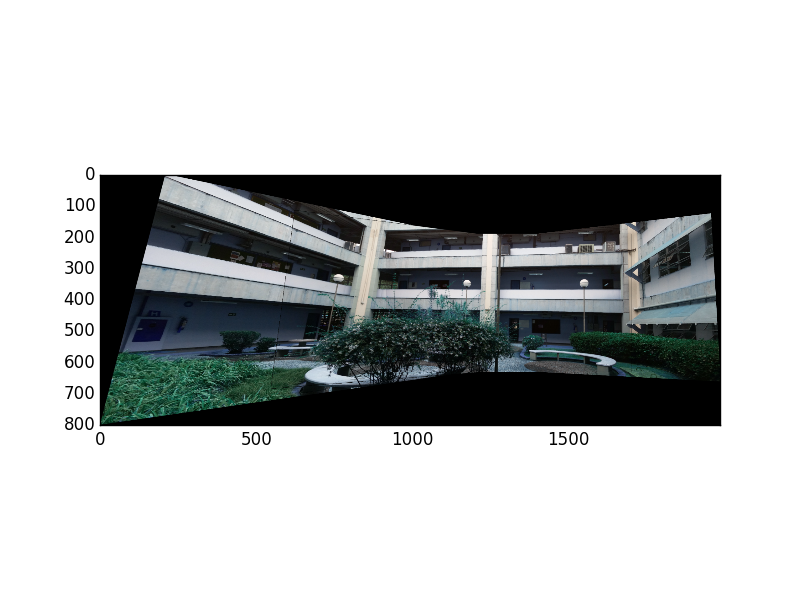
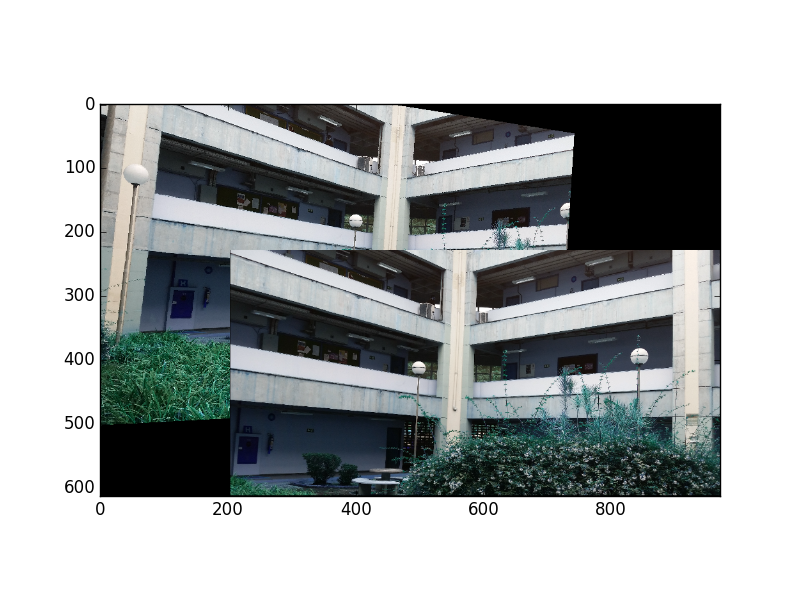
Starting warp perspective

diff --git a/tp2.py b/tp2.py
@@ -6,7 +6,7 @@ import matplotlib.pyplot as plt
 
 MASK_SIZE = 2000
 
-MAX_HEIGHT = 1200.00
+MAX_HEIGHT = 800.00
 
 SIFT_SIFT = 0
 FAST_BRIEF = 1
@@ -249,61 +249,98 @@ class ImageBlock:
 
         return matrix_h
 
-    def warp(self, h, new_h, new_w, min_x, min_y):
+    def get_dimensions(self, h):
+        img_h, img_w = self._image.shape[:2]
+        min_v = 0
+        min_u = 0
+        max_v = 0
+        max_u = 0
+        for y in range(img_h):
+            for x in range(img_w):
+                u = (h[0, 0]*x) + (h[0, 1]*y) + (h[0, 2])
+                v = (h[1, 0]*x) + (h[1, 1]*y) + (h[1, 2])
+                w = (h[2, 0]*x) + (h[2, 1]*y) + (h[2, 2])
+                u /= w
+                v /= w
+
+                if v < min_v:
+                    min_v = v
+
+                if u < min_u:
+                    min_u = u
+
+                if v > max_v:
+                    max_v = v
+
+                if u > max_u:
+                    max_u = u
+
+        min_u *= -1
+        min_v *= -1
+        max_u += min_u
+        max_v += min_v
+        return min_v, min_u, max_v, max_u
+
+    def warp(self, h, new_h, new_w, min_u=0, min_v=0):
         img_h, img_w = self._image.shape[:2]
 
         warped_img = np.zeros((new_h, new_w, 3), np.uint8)
-        w = 1
+
         for y in range(img_h):
             for x in range(img_w):
-                x1 = min_x + (h[0, 0]*x) + (h[1, 0]*y) + (h[2, 0]*w)
-                y1 = min_y + (h[0, 1]*x) + (h[1, 1]*y) + (h[2, 1]*w)
+                u = (h[0, 0]*x) + (h[0, 1]*y) + (h[0, 2])
+                v = (h[1, 0]*x) + (h[1, 1]*y) + (h[1, 2])
+                w = (h[2, 0]*x) + (h[2, 1]*y) + (h[2, 2])
+                u /= w
+                v /= w
 
-                if (x1 < new_w-1) and (y1 < new_h-1) and (x1 >= 0) and (y1 >= 0):
-                    warped_img[y1, x1] = self._image[y, x]
+                u += min_u
+                v += min_v
+
+                if (u < new_w-1) and (v < new_h-1) and (u >= 0) and (v >= 0):
+                    warped_img[v, u] = self._image[y, x]
 
         return warped_img
 
 
 class Mosaic:
     @staticmethod
-    def get_wrap_image(center_block, target):
-        print "Matching " + center_block.get_path() + " and " + target.get_path()
-        matches = center_block.match(target)
-        homography = center_block.get_homography(target, matches)
-        inv_homography = np.linalg.inv(homography)
-        img_h, img_w = center_block.get_image().shape[:2]
-        new_h = img_h * 1.5
-        new_w = img_w * 2
-        # target_img_wrp = cv2.warpPerspective(target.get_image(), mod_inv_h, (img_w, img_h))
-        target_img_wrp = target.warp(homography, new_h, new_w, 0, 200)
-        # center_img_wrp = cv2.warpPerspective(center_block.get_image(), move_h, (img_w, img_h))
-        center_img_wrp = center_block.warp(np.identity(3), new_h, new_w, 0, 200)
+    def get_wrap_image(center, target):
+        print "Matching " + center.get_path() + " and " + target.get_path()
+        matches = target.match(center)
+        homography = target.get_homography(center, matches)
+        # inv_homography = np.linalg.inv(homography)
+
+        min_y, min_x, new_h, new_w = target.get_dimensions(homography)
+
+        target_img_wrp = target.warp(homography, new_h, new_w)
+
+        center_img_wrp = center.warp(np.identity(3), new_h, new_w, min_y, min_x)
+
+        save_image(target_img_wrp, 'wrapped_' + target.get_path())
+        save_image(center_img_wrp, 'wrapped_' + center.get_path())
 
         (ret, data_map) = cv2.threshold(cv2.cvtColor(center_img_wrp, cv2.COLOR_BGR2GRAY),
                                         0, 255, cv2.THRESH_BINARY)
 
         enlarged_base_img = np.zeros((new_h, new_w, 3), np.uint8)
         # Now add the warped image
-        save_image(target_img_wrp, 'wrapped_' + target.get_path())
-        save_image(center_img_wrp, 'wrapped_' + center_block.get_path())
 
         enlarged_base_img = cv2.add(enlarged_base_img, target_img_wrp,
                                     mask=np.bitwise_not(data_map),
                                     dtype=cv2.CV_8U)
 
-        save_image(enlarged_base_img, 'wrapped_1_' + center_block.get_path())
+        save_image(enlarged_base_img, 'wrapped_1_' + center.get_path())
 
         final_img = cv2.add(enlarged_base_img, center_img_wrp,
                             dtype=cv2.CV_8U)
 
-        save_image(final_img, 'wrapped_2_' + center_block.get_path())
-        # img = cv2.half()
-        # cv::Mat half(result,cv::Rect(0,0,image2.cols,image2.rows));
+        save_image(final_img, 'wrapped_2_' + center.get_path())
+
         return final_img
 
     def combine(self, center_block, target_block, name):
-        result_image = self.get_wrap_image(center_block, target_block)
+        result_image = self.get_wrap_image(center=center_block, target=target_block)
         result_block = ImageBlock(name, image=result_image)
         save_image(result_image, name)
         return result_block
@@ -320,29 +357,33 @@ class Mosaic:
 
         # for b, t in img_combinations:
 
-        block34 = self.combine(block_list[2], block_list[3], 'img34.png')
-        show_image(block34.get_image())
 
-        # block34.detect(left=MASK_SIZE)
+        block34 = self.combine(center_block=block_list[2], target_block=block_list[3], name='img34.png')
+
+        block34.detect()
+        # #
+        block234 = self.combine(block_list[1], block34, 'img234.png')
+        del block34
+
         #
-        # block234 = self.combine(block34, block_list[1], 'img234.png')
-        # del block34
-        #
-        # block234.detect(right=MASK_SIZE)
-        #
+        block234.detect()
+
+        block1234 = self.combine(block234, block_list[0], 'img1234.png')
+        del block1234
+
         # block2345 = self.combine(block234, block_list[4], 'img2345.png')
         # del block234
         #
-        # block2345.detect(right=MASK_SIZE)
+        # block2345.detect()
         #
         # block23456 = self.combine(block2345, block_list[5], 'img23456.png')
         # del block2345
         #
-        # block23456.detect(left=MASK_SIZE)
-        #
-        # block123456 = self.combine(block23456, block_list[0], 'img123456.png')
+        # block23456.detect()
+
+        # block123456 = self.combine(block_list[0], block23456, 'img123456.png')
         # del block23456
-        #
+
         # show_image(block123456.get_image())
         # del block123456
 
